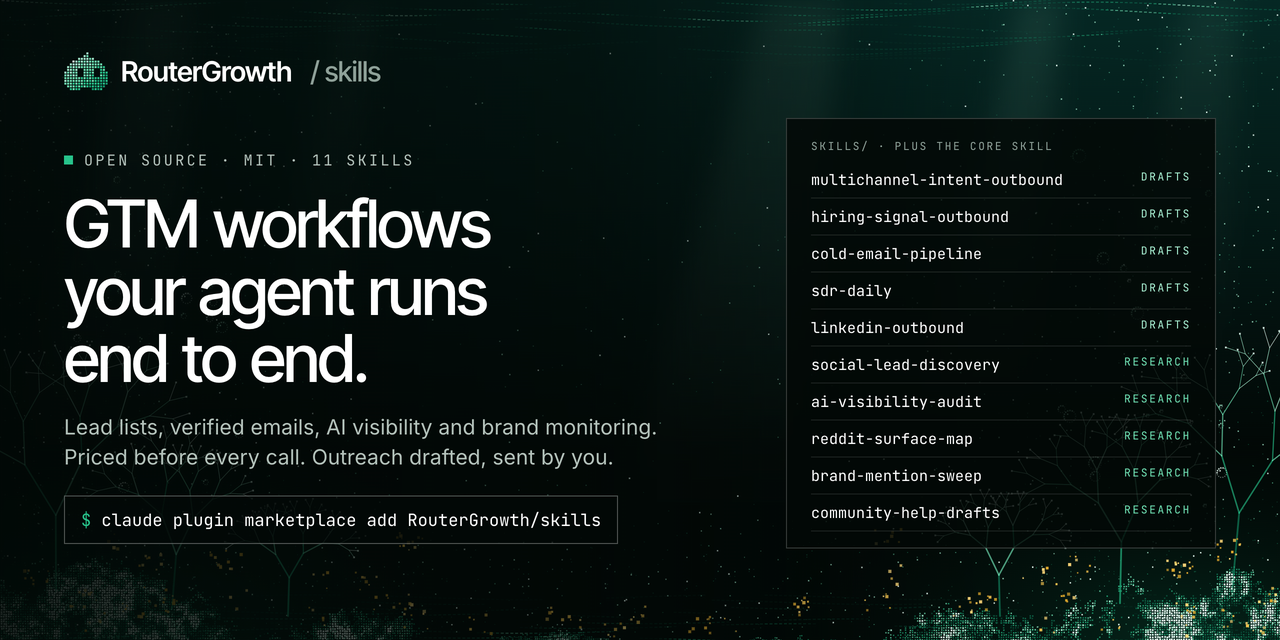
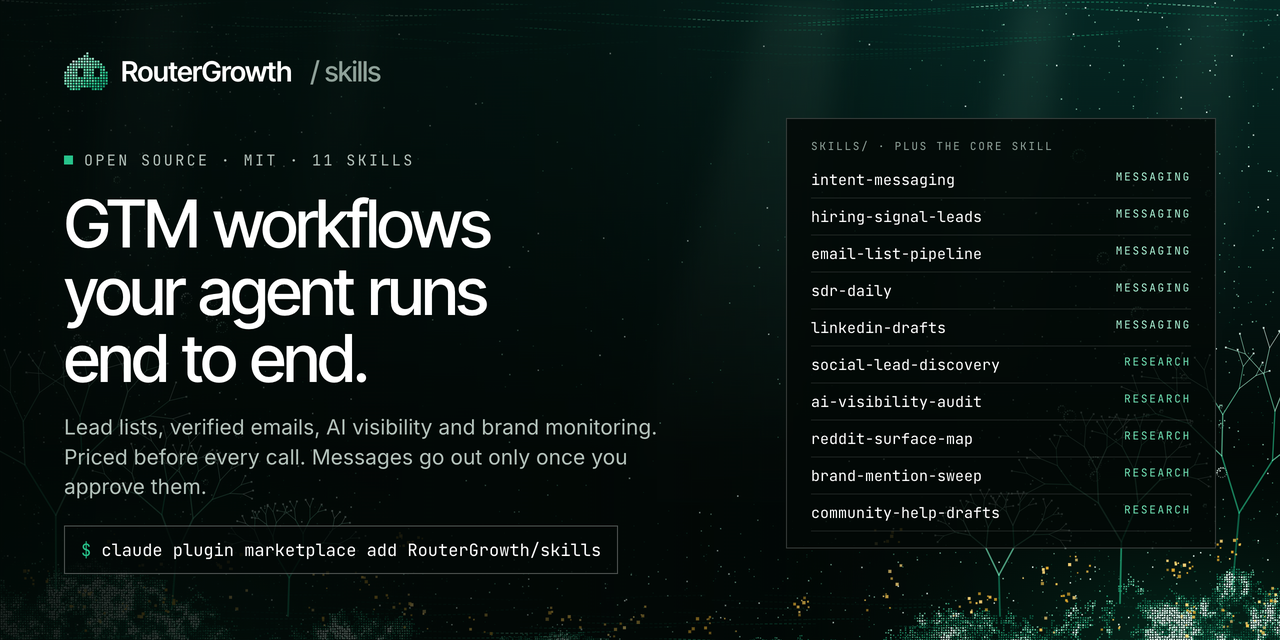
0.2.3: messaging names for the four outreach skills
cold-email-pipeline -> email-list-pipeline, hiring-signal-outbound ->
hiring-signal-leads, linkedin-outbound -> linkedin-drafts,
multichannel-intent-outbound -> intent-messaging. Social preview updated.

diff --git a/.github/social-preview.html b/.github/social-preview.html
@@ -30,11 +30,11 @@ h1 .u path{fill:none;stroke:#0c7c59;stroke-width:5px;stroke-linecap:round}
 <div class="cmd"><span class="d">$</span><span>claude plugin marketplace add RouterGrowth/skills</span></div>
 <div class="list">
   <div class="lh"><i></i>skills/</div>
-  <div class="it"><span class="n">multichannel-intent-outbound</span><span class="k">outbound</span></div>
-  <div class="it"><span class="n">hiring-signal-outbound</span><span class="k">outbound</span></div>
-  <div class="it"><span class="n">cold-email-pipeline</span><span class="k">outbound</span></div>
+  <div class="it"><span class="n">intent-messaging</span><span class="k">outbound</span></div>
+  <div class="it"><span class="n">hiring-signal-leads</span><span class="k">outbound</span></div>
+  <div class="it"><span class="n">email-list-pipeline</span><span class="k">outbound</span></div>
   <div class="it"><span class="n">sdr-daily</span><span class="k">outbound</span></div>
-  <div class="it"><span class="n">linkedin-outbound</span><span class="k">outbound</span></div>
+  <div class="it"><span class="n">linkedin-drafts</span><span class="k">outbound</span></div>
   <div class="it"><span class="n">social-lead-discovery</span><span class="k">research</span></div>
   <div class="it"><span class="n">ai-visibility-audit</span><span class="k">research</span></div>
   <div class="it"><span class="n">reddit-surface-map</span><span class="k">research</span></div>

diff --git a/README.md b/README.md
@@ -26,12 +26,12 @@ You pay per call from a prepaid RouterGrowth balance, with no subscription. Clau
 | Skill | Job | Tools it calls |
 | --- | --- | --- |
 | [routergrowth](skills/routergrowth) | The core skill: the connector's tools, spending rules, privacy rules, when not to use RouterGrowth | all |
-| [hiring-signal-outbound](skills/hiring-signal-outbound) | Companies hiring for the role you sell to, the buyer at each, a verified email, a first email sent after your approval | company_jobs, people_search, contact_find, contact_verify |
+| [hiring-signal-leads](skills/hiring-signal-leads) | Companies hiring for the role you sell to, the buyer at each, a verified email, a first email sent after your approval | company_jobs, people_search, contact_find, contact_verify |
 | [social-lead-discovery](skills/social-lead-discovery) | Leads from X, Instagram, TikTok and YouTube: who posts about the topic, who asks under a competitor's post, the website and contact on each profile, a drafted opener | social_search, social_comments, social_profile, contact_find, contact_verify |
-| [cold-email-pipeline](skills/cold-email-pipeline) | Research, list, grade, verify, write, send by email after approval. A directives folder holds the ICP and the copy rules | people_search, contact_find, contact_verify, web_scrape, email_send, gmail_send |
+| [email-list-pipeline](skills/email-list-pipeline) | Research, list, grade, verify, write, send by email after approval. A directives folder holds the ICP and the copy rules | people_search, contact_find, contact_verify, web_scrape, email_send, gmail_send |
 | [sdr-daily](skills/sdr-daily) | One day of the loop: new replies, follow-ups due, suppressions, the day's approved emails and a briefing | list_workspace_events, email_messages, email_send, get_subjects_history, workspace tables |
-| [linkedin-outbound](skills/linkedin-outbound) | Find and read the profiles you pick, draft the connection note and first message, draft answers to replies | linkedin_search, linkedin_profile, linkedin_messages |
-| [multichannel-intent-outbound](skills/multichannel-intent-outbound) | From intent signal to a plan per person: LinkedIn drafts and an email follow-up sent after approval, three gates | people_search, social_search, contact_find, contact_verify, email_send, watches and workspace tables |
+| [linkedin-drafts](skills/linkedin-drafts) | Find and read the profiles you pick, draft the connection note and first message, draft answers to replies | linkedin_search, linkedin_profile, linkedin_messages |
+| [intent-messaging](skills/intent-messaging) | From intent signal to a plan per person: LinkedIn drafts and an email follow-up sent after approval, three gates | people_search, social_search, contact_find, contact_verify, email_send, watches and workspace tables |
 | [ai-visibility-audit](skills/ai-visibility-audit) | A frozen prompt panel across ChatGPT, Claude, Gemini and Perplexity: mentions, citations, share of voice | aeo_answer, aeo_mentions, aeo_keywords, seo_serp |
 | [reddit-surface-map](skills/reddit-surface-map) | The threads ranking for your money queries, the subreddits behind them, their rules | seo_serp, social_search, social_comments, web_scrape |
 | [brand-mention-sweep](skills/brand-mention-sweep) | Every mention of the brand, founder and competitors in 90 days, with sentiment and the threads worth a human reply | social_search, news_search, web_search, reviews_search |
@@ -75,7 +75,7 @@ Then run `/mcp` once to sign in with OAuth and approve a workspace.
 
 ## Long-running loops
 
-sdr-daily, linkedin-outbound, multichannel-intent-outbound and community-help-drafts run every day. They share one shape (read new replies before sourcing more, unknown is not "no reply", a reply stops the sequence), written up in [docs/daily-lifecycle.md](docs/daily-lifecycle.md).
+sdr-daily, linkedin-drafts, intent-messaging and community-help-drafts run every day. They share one shape (read new replies before sourcing more, unknown is not "no reply", a reply stops the sequence), written up in [docs/daily-lifecycle.md](docs/daily-lifecycle.md).
 
 ## Contributing
 

diff --git a/skills/sdr-daily/SKILL.md b/skills/sdr-daily/SKILL.md
@@ -16,7 +16,7 @@ description: >-
 
 One day of a Sales Development loop. You do the mechanical work (read what came in, classify it, update the list, work out what is due, write the drafts), surface the few human decisions, and hand back a short briefing. The user approves every message before it goes. Approved emails you can send from the user's RouterGrowth inbox or Gmail; LinkedIn messages stay drafts the user sends themselves. You never connect an account or set up an inbox.
 
-The list comes from a campaign the user already built (for example with `cold-email-pipeline` or `multichannel-intent-outbound`): people who have a reason to hear from the user, with approved copy for each step. The user is the sender and stays responsible for anti-spam and privacy law; every draft carries a plain way to say no.
+The list comes from a campaign the user already built (for example with `email-list-pipeline` or `intent-messaging`): people who have a reason to hear from the user, with approved copy for each step. The user is the sender and stays responsible for anti-spam and privacy law; every draft carries a plain way to say no.
 
 ## Before you start
 
@@ -27,7 +27,7 @@ The list comes from a campaign the user already built (for example with `cold-em
   - `DAILY_CAP`: how many messages the user will send in a day, all steps together (default 30; 20 on LinkedIn). Drafting past what they will send is wasted work.
   - `CHANNELS`: which inboxes the user already connected to the workspace, from the free `email_inboxes`, `gmail_accounts`, `linkedin_accounts`. Email inboxes are read and, after approval, sent from; LinkedIn is only read. If none is connected, the user tells you what came in.
   - `LAST_RUN`: the time of the previous run (with tables on, the newest `last_touch_at` works; on the first run there is none).
-- Row statuses (the same ones `cold-email-pipeline` writes): `verified` or `found` (ready for a first touch, not yet drafted), `drafted` (a draft is waiting for the user), `sent` (the user confirmed the send; the `step` field says which: J+0, J+4, J+10), `replied`, `suppressed`. `next_at` holds when the next step is due.
+- Row statuses (the same ones `email-list-pipeline` writes): `verified` or `found` (ready for a first touch, not yet drafted), `drafted` (a draft is waiting for the user), `sent` (the user confirmed the send; the `step` field says which: J+0, J+4, J+10), `replied`, `suppressed`. `next_at` holds when the next step is due.
 
 ## 1. Read what came in
 
@@ -88,7 +88,7 @@ Save every draft on its row (`update_table_rows`: `status: "drafted"`, `step`, `
 
 When the user approves the day's emails (as shown: from, to, subject, full body), send them following "Sending email" in the core `routergrowth` skill: one at a time inside `DAILY_CAP`, `email_send` with `inbox_id` (or `gmail_send`), a follow-up answering in its thread (`in_reply_to` with the earlier message's id), an `idempotency_key` on each. A `suppressed`, `opted_out` or `repeat_touch` block is final for that person; `paced` means wait `retry_after`. Set each row to `sent` with its `step`, the run id and `next_at`. LinkedIn drafts stay with the user.
 
-When the queue is empty, say so and suggest building the next batch with `cold-email-pipeline` or `multichannel-intent-outbound`.
+When the queue is empty, say so and suggest building the next batch with `email-list-pipeline` or `intent-messaging`.
 
 ## 8. Briefing
 

diff --git a/skills/social-lead-discovery/SKILL.md b/skills/social-lead-discovery/SKILL.md
@@ -118,13 +118,13 @@ Keep `valid`. Drop `invalid`. Hold `catch_all` and `unknown` in their own column
 One draft per kept row, for the user to read, edit and send or post from their own account:
 
 - **Public reply** (social-only rows, and anyone found under someone else's post): answers the question or comments on the project they posted, adds one useful thing, no pitch, under 280 characters on X. The user posts it by hand, or not.
-- **First message** (email or DM, only where the user has a reason the person would expect to hear from them): names the post or project that surfaced them, asks one question, no pitch, under 300 characters for a DM. The `cold-email-pipeline` skill can draft a fuller email sequence for the verified rows.
+- **First message** (email or DM, only where the user has a reason the person would expect to hear from them): names the post or project that surfaced them, asks one question, no pitch, under 300 characters for a DM. The `email-list-pipeline` skill can draft a fuller email sequence for the verified rows.
 
 Show every draft in the chat, or save the rows with `status: "drafted"` through `upsert_table_rows` when workspace tables are on (if they are not, the dashboard Settings page turns them on; a markdown table in the chat works meanwhile). Drafts that read as a complaint reply or a "who is this" answer need the user's own words, not a template.
 
 ## Rules
 
-- Never send, connect an account, follow, like, reply or comment. This skill only reads public data and drafts. The user sends DMs and replies from their own accounts; a first email to a verified address can go through RouterGrowth after approval by handing the rows to `cold-email-pipeline` (its Send stage).
+- Never send, connect an account, follow, like, reply or comment. This skill only reads public data and drafts. The user sends DMs and replies from their own accounts; a first email to a verified address can go through RouterGrowth after approval by handing the rows to `email-list-pipeline` (its Send stage).
 - Check the price once per tool, quote the whole run, then run. Do not re-ask between rows once the user approved the total.
 - `max_cost` on every paid call. Stop and ask before a run likely above about $1 unless the user asked for that volume.
 - Public business and creator profiles only. Respect the suppression list and RouterGrowth opt-outs (step 3). Collect only the columns the job needs.

diff --git a/skills/email-list-pipeline/SKILL.md b/skills/email-list-pipeline/SKILL.md
@@ -1,5 +1,5 @@
 ---
-name: cold-email-pipeline
+name: email-list-pipeline
 description: >-
   Build a qualified, verified contact list and draft personalised emails with
   RouterGrowth for people the user has a reason to contact: inbound leads,
@@ -58,7 +58,7 @@ To add people at companies that fit, translate the user's sentence through `dire
 
 `company_headcount` bands are `1-10`, `11-50`, `51-200`, `201-500`, `501-1000`, `1001-5000`, `5001-10000`, `10001+` and `seniority` is `entry`, `senior`, `manager`, `director`, `vp`, `cxo`, `partner`, `owner`; anything else is refused. Priced per person returned, so ask for the people you will use. Rows carry `first_name`, `last_name`, `name`, `headline`, `current_title`, `current_company`, `linkedin_url`, `location`, and sometimes a company domain or an email; most rows carry no email.
 
-Or start from accounts (the `hiring-signal-outbound` skill, or `company_search` with the query and a location) and search people inside them with `companies` or `company_domains`. `company_search` is also where the web domain and the headcount come from (`domain`, `employee_count`; the declared range often disagrees with the count, filter on the count). A domain is what `contact_find` needs.
+Or start from accounts (the `hiring-signal-leads` skill, or `company_search` with the query and a location) and search people inside them with `companies` or `company_domains`. `company_search` is also where the web domain and the headcount come from (`domain`, `employee_count`; the declared range often disagrees with the count, filter on the count). A domain is what `contact_find` needs.
 
 Drop rows with an empty `current_title` or `current_company` or a truncated last name. Apply `negative-keywords.md` at search time where a filter supports it. Save the cleaned rows with `upsert_table_rows` (status `raw`), or `out/leads-raw.csv`.
 

diff --git a/skills/routergrowth/SKILL.md b/skills/routergrowth/SKILL.md
@@ -32,12 +32,12 @@ When the request is a complete GTM job, a workflow skill in this plugin already 
 
 | Skill | Use it when the user wants |
 |---|---|
-| cold-email-pipeline | a researched email list from one targeting sentence: companies, people, verified emails, personalised emails sent after approval |
+| email-list-pipeline | a researched email list from one targeting sentence: companies, people, verified emails, personalised emails sent after approval |
 | sdr-daily | one day of a running campaign: triage replies, write answers and follow-ups, send the approved emails |
-| hiring-signal-outbound | leads at companies hiring for a role that implies the problem they solve, with a first email sent after approval |
+| hiring-signal-leads | leads at companies hiring for a role that implies the problem they solve, with a first email sent after approval |
 | social-lead-discovery | people who engaged with posts, hashtags or a competitor, enriched to a verified email |
-| linkedin-outbound | LinkedIn research and drafted notes or messages for people who expect to hear from them |
-| multichannel-intent-outbound | high-intent leads with LinkedIn drafts and an approved email follow-up |
+| linkedin-drafts | LinkedIn research and drafted notes or messages for people who expect to hear from them |
+| intent-messaging | high-intent leads with LinkedIn drafts and an approved email follow-up |
 | ai-visibility-audit | what ChatGPT, Claude, Gemini and Perplexity say about a brand and its category |
 | reddit-surface-map | the subreddits and threads that own a category |
 | brand-mention-sweep | every mention of a brand, founder and competitors in the last 90 days |

diff --git a/skills/intent-messaging/SKILL.md b/skills/intent-messaging/SKILL.md
@@ -1,5 +1,5 @@
 ---
-name: multichannel-intent-outbound
+name: intent-messaging
 description: >-
   Plan a multichannel messaging sequence with RouterGrowth for people
   who show a dated, public intent signal (hiring for the role, posting about
@@ -23,7 +23,7 @@ Five steps. Nothing goes out without the user approving it: LinkedIn messages st
 4. **Enrich.** A verified work email for the people the email step will reach.
 5. **Write and send the follow-up.** An email on day 3 for whoever has not answered, sent after approval. Any reply on any channel ends the plan for that person.
 
-The agent finds, reads, qualifies and writes. The user sends LinkedIn and WhatsApp messages from their own accounts; the day-3 email the agent sends by email once the user approves it. This skill never sends an invitation or a LinkedIn, Instagram or WhatsApp message, and never connects an account or sets up an inbox, domain or warm-up. For depth on step 1, see the `hiring-signal-outbound` and `social-lead-discovery` skills; for the daily follow-through, `sdr-daily`.
+The agent finds, reads, qualifies and writes. The user sends LinkedIn and WhatsApp messages from their own accounts; the day-3 email the agent sends by email once the user approves it. This skill never sends an invitation or a LinkedIn, Instagram or WhatsApp message, and never connects an account or sets up an inbox, domain or warm-up. For depth on step 1, see the `hiring-signal-leads` and `social-lead-discovery` skills; for the daily follow-through, `sdr-daily`.
 
 ## Who this is for
 

diff --git a/skills/linkedin-drafts/SKILL.md b/skills/linkedin-drafts/SKILL.md
@@ -1,5 +1,5 @@
 ---
-name: linkedin-outbound
+name: linkedin-drafts
 description: >-
   Prepare LinkedIn messages with RouterGrowth that the user sends themselves:
   find people who have a reason to hear from the user (people who engaged with
@@ -14,7 +14,7 @@ description: >-
 
 # LinkedIn messages: research and drafts
 
-The agent finds candidates, reads the profiles the user picks, and drafts a connection note and a first message per person. The user sends every invitation and message themselves, from LinkedIn: these go out under their personal login, so they stay drafts. This skill never sends a connection request or a message. For people with a verified work email, the email can go through RouterGrowth after approval (see `cold-email-pipeline`).
+The agent finds candidates, reads the profiles the user picks, and drafts a connection note and a first message per person. The user sends every invitation and message themselves, from LinkedIn: these go out under their personal login, so they stay drafts. This skill never sends a connection request or a message. For people with a verified work email, the email can go through RouterGrowth after approval (see `email-list-pipeline`).
 
 ## Who this is for
 

diff --git a/skills/hiring-signal-leads/SKILL.md b/skills/hiring-signal-leads/SKILL.md
@@ -1,5 +1,5 @@
 ---
-name: hiring-signal-outbound
+name: hiring-signal-leads
 description: >-
   Build a lead list from hiring signals with RouterGrowth and write the first
   email for each contact, sent by email once the user approves it. Find companies that just posted the role that
@@ -86,7 +86,7 @@ One email per verified contact, plain text, 80 to 140 words: the posting is the 
 
 Good opening: "Saw Acme posted a Growth Engineer role last week, and the description leans hard on lifecycle email." Bad opening: "I noticed your company is growing fast!" (no posting, no detail, could be anyone).
 
-Save the drafts as rows with status `drafted` (`upsert_table_rows`), or in the CSV. For a longer list with grading and a directives folder, hand the verified rows to the `cold-email-pipeline` skill instead.
+Save the drafts as rows with status `drafted` (`upsert_table_rows`), or in the CSV. For a longer list with grading and a directives folder, hand the verified rows to the `email-list-pipeline` skill instead.
 
 ## Gate
 

diff --git a/skills/email-list-pipeline/directives/lead-source.md b/skills/email-list-pipeline/directives/lead-source.md
@@ -26,5 +26,5 @@ These already carry the reason to write. The pipeline grades and verifies them l
 
 ## Other sources
 
-- Accounts first: run the `hiring-signal-outbound` skill or `company_search` (query, location) and search people inside those companies with `companies` or `company_domains`. `company_search` is also where the web domain and the headcount come from.
+- Accounts first: run the `hiring-signal-leads` skill or `company_search` (query, location) and search people inside those companies with `companies` or `company_domains`. `company_search` is also where the web domain and the headcount come from.
 - Public registers: for regulated professions with a public register, the register is often a better and free source. Say which register and how to read it here, then use `contact_find` to add the email.

diff --git a/docs/daily-lifecycle.md b/docs/daily-lifecycle.md
@@ -1,6 +1,6 @@
 # The daily lifecycle pattern
 
-Several skills here (sdr-daily, linkedin-outbound, multichannel-intent-outbound, community-help-drafts) run as a daily loop rather than a one-off. The loop has a shape that keeps a scheduled agent safe. Copy it when you write one.
+Several skills here (sdr-daily, linkedin-drafts, intent-messaging, community-help-drafts) run as a daily loop rather than a one-off. The loop has a shape that keeps a scheduled agent safe. Copy it when you write one.
 
 ## Monitor before you source
 
